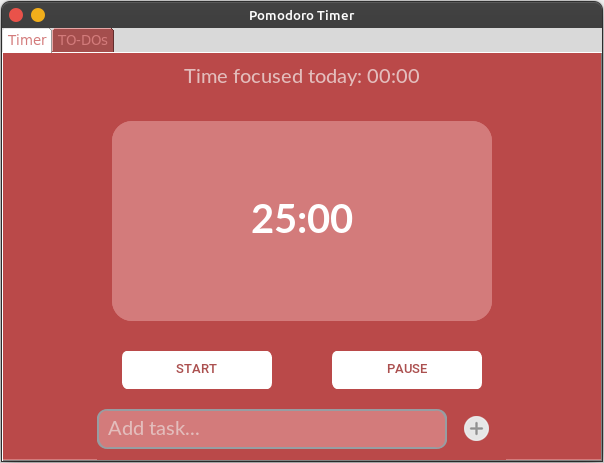
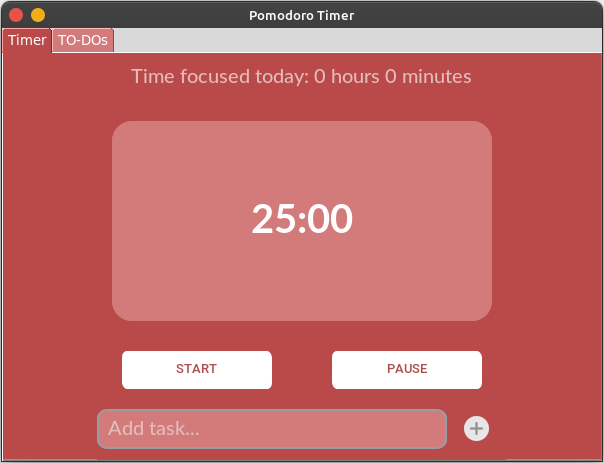
fix timer bux, update tab design, update screenshot

Changed region(s): [[0.2086, 0.1512, 0.7748, 0.1814], [0.0, 0.0605, 0.2086, 0.121]]

diff --git a/main.py b/main.py
@@ -52,9 +52,7 @@ class App(ctk.CTk):
         self.time_frame = ctk.CTkFrame(self.home_frame, fg_color=FG_COLOR, bg_color=BG_COLOR, corner_radius=20, width=300)
         self.time_frame.pack(pady=20, ipadx=40, expand=True)
                 
-        #progress bar
-        # self.progress_bar = ctk.CTkProgressBar(self.home_frame, height=20, width=400, progress_color="white")
-        # self.progress_bar.pack(pady=20)
+        #
         
         #time label
         self.time_label = ctk.CTkLabel(self.time_frame, text_color=TXT_COLOR, text="25:00", font=self.font_big)
@@ -68,7 +66,7 @@ class App(ctk.CTk):
         self.start_btn = ctk.CTkButton(self.btn_frame, text="START", text_color=BTN_TEXT, hover_color=BTN_HOVER, fg_color=BTN_COLOR, command=self.start_timer)
         self.start_btn.pack(side="left", padx=30, ipady=5, ipadx=5)
         
-        self.pause_btn = ctk.CTkButton(self.btn_frame, text="PAUSE", text_color=BTN_TEXT, hover_color=BTN_HOVER, fg_color=BTN_COLOR, command=self.pause_timer)
+        self.pause_btn = ctk.CTkButton(self.btn_frame, text="PAUSE", text_color=BTN_TEXT, hover_color=BTN_HOVER, fg_color=BTN_COLOR)
         self.pause_btn.pack(side="right", padx=30, ipady=5, ipadx=5)
 
         #task entry
@@ -90,7 +88,9 @@ class App(ctk.CTk):
         self.task_button.pack(side="right", ipady=5, pady=10, padx=10)
         
         
-        
+        #to-do tab
+  
+        #start the main loop
         self.root.mainloop()
     
     def reset_timer(self):
@@ -117,14 +117,17 @@ class App(ctk.CTk):
             return
         time_obj = datetime.strptime(time_str, "%M:%S")
         
-        #for now time updates every secound
-        time.sleep(1)
-        new_time_obj = time_obj - timedelta(minutes=1)
+        #for now time updates every 0.1 secound
+        time.sleep(0.1)
+        
+        new_time_obj = time_obj - timedelta(seconds=1)
         new_time_str = new_time_obj.strftime("%M:%S")
         
         self.time_label.configure(text=new_time_str)
         self.time_label.update_idletasks()
-        self.time_label.after(60, self.update_timer())
+        self.time_label.after(1, self.update_timer())
+        
+        
         
 
         
